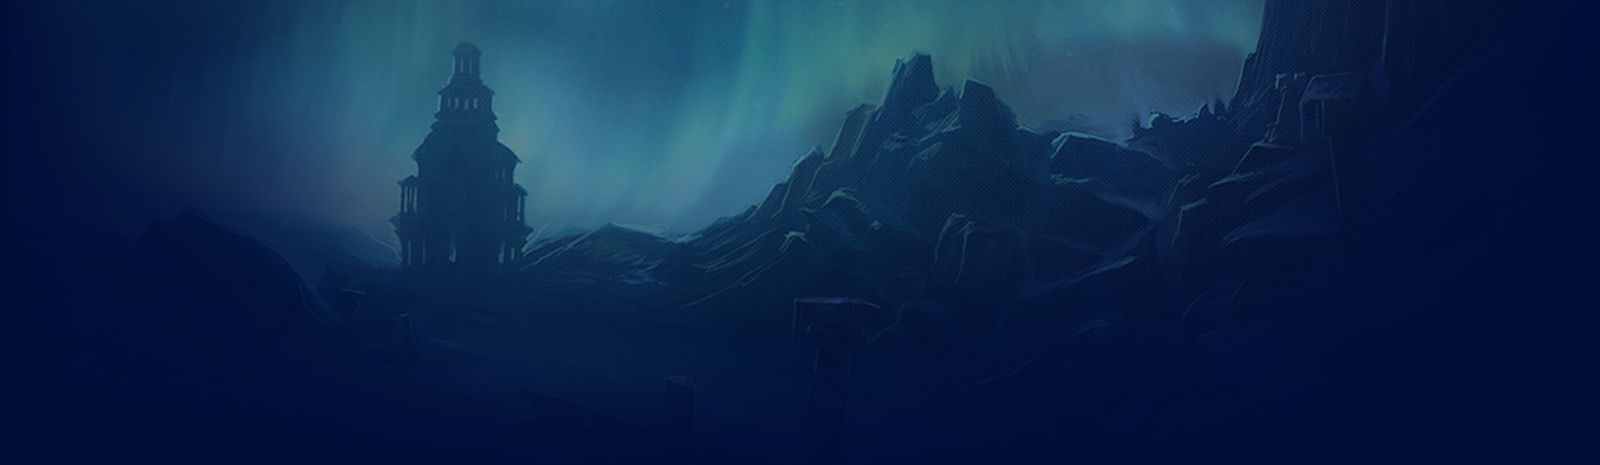
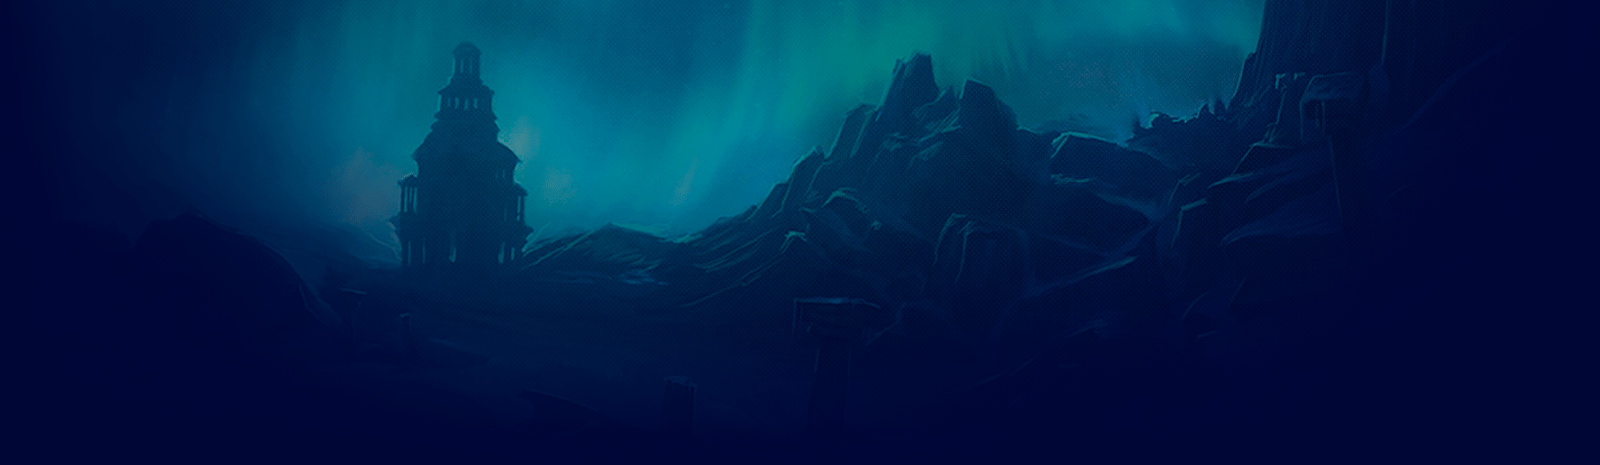
Update
- Remove more functions
- Compress images
- Fix change nickname/email

diff --git a/application/views/layouts/layout.php b/application/views/layouts/layout.php
@@ -32,11 +32,7 @@
               <?php if ($this->website->isLogged()): ?>
               <li class="uk-visible@m">
                 <a href="#">
-                  <?php if($this->base->getUserInfoGeneral($this->session->userdata('id'))->num_rows()): ?>
-                  <img class="uk-border-circle" src="<?= base_url('assets/images/profiles/'.$this->website->getNameAvatar($this->website->getImageProfile($this->session->userdata('id')))); ?>" width="30" height="30" alt="Avatar">
-                  <?php else: ?>
-                  <img class="uk-border-circle" src="<?= base_url('assets/images/profiles/default.png'); ?>" width="30" height="30" alt="Avatar">
-                  <?php endif; ?>
+                  <img class="uk-border-circle" src="<?= base_url('assets/images/profiles/'.$this->website->user_avatar()); ?>" width="30" height="30" alt="Avatar">
                   <span class="uk-text-middle uk-text-bold">&nbsp;<?= $this->session->userdata('nickname'); ?>&nbsp;<i class="fas fa-caret-down"></i></span>
                 </a>
                 <div class="uk-navbar-dropdown" uk-dropdown="boundary: .uk-container">
@@ -137,11 +133,7 @@
               <p class="uk-logo uk-text-center uk-margin-small"><?= config_item('app_name'); ?></p>
               <?php if ($this->website->isLogged()): ?>
               <div class="uk-padding-small uk-padding-remove-vertical uk-margin-small uk-text-center">
-                <?php if($this->base->getUserInfoGeneral($this->session->userdata('id'))->num_rows()): ?>
-                <img class="uk-border-circle" src="<?= base_url('assets/images/profiles/'.$this->website->getNameAvatar($this->website->getImageProfile($this->session->userdata('id')))); ?>" width="36" height="36" alt="Avatar">
-                <?php else: ?>
-                <img class="uk-border-circle" src="<?= base_url('assets/images/profiles/default.png'); ?>" width="36" height="36" alt="Avatar">
-                <?php endif; ?>
+                <img class="uk-border-circle" src="<?= base_url('assets/images/profiles/'.$this->website->user_avatar()); ?>" width="36" height="36" alt="Avatar">
                 <span class="uk-label"><?= $this->session->userdata('nickname'); ?></span>
               </div>
               <?php endif; ?>
@@ -206,7 +198,7 @@
       <div class="uk-container">
         <div class="uk-grid uk-grid-small uk-flex uk-flex-middle" data-uk-grid>
           <div class="uk-width-auto@s">
-            <p class="uk-h6 uk-text-bold uk-text-uppercase uk-text-center uk-text-left@s">Proudly powered by <a target="_blank" href="https://wow-cms.com">BlizzCMS</a></p>
+            <p class="uk-text-bold uk-text-uppercase uk-text-center uk-text-left@s">Proudly powered by <a target="_blank" href="https://wow-cms.com">BlizzCMS</a></p>
           </div>
           <div class="uk-width-expand@s">
             <p class="uk-text-small uk-text-center uk-text-right@s">Copyright <i class="far fa-copyright"></i> <?= date('Y'); ?> <span class="uk-text-bold"><?= config_item('app_name'); ?></span>. <?= lang('footer_rights'); ?></p>

diff --git a/application/modules/admin/views/account/manage_account.php b/application/modules/admin/views/account/manage_account.php
@@ -16,13 +16,11 @@
             <div class="uk-grid uk-grid-medium" data-uk-grid>
               <div class="uk-width-1-4@s">
                 <div class="uk-flex uk-flex-center uk-margin-small">
-                  <img class="uk-border-rounded" src="<?= base_url('assets/images/profiles/'.$this->website->getNameAvatar($this->website->getImageProfile($idlink))); ?>" height="170" alt="Avatar">
+                  <img class="uk-border-rounded" src="<?= base_url('assets/images/profiles/'.$this->website->user_avatar($user->id)); ?>" height="170" alt="Avatar">
                 </div>
                 <div class="uk-text-center uk-margin-small">
-                  <?php foreach ($this->base->getUserInfoGeneral($idlink)->result() as $info): ?>
-                  <h3 class="uk-h3 uk-text-bold uk-margin-remove"><i class="fas fa-user"></i> <?= $info->username ?></h3>
-                  <p class="uk-margin-remove"><i class="fas fa-envelope"></i> <?= $info->email ?></p>
-                  <?php endforeach; ?>
+                  <h3 class="uk-h3 uk-text-bold uk-margin-remove"><i class="fas fa-user"></i> <?= $user->username; ?></h3>
+                  <p class="uk-margin-remove"><i class="fas fa-envelope"></i> <?= $user->email ?></p>
                 </div>
               </div>
               <div class="uk-width-3-4@s">
@@ -33,13 +31,13 @@
                     <div class="uk-inline uk-width-1-2@s">
                       <label class="uk-form-label"><?= lang('panel_dp'); ?></label>
                       <div class="uk-form-controls">
-                        <input class="uk-input" type="number" id="account_dp" min="0" value="<?= $this->website->get_user($idlink, 'dp'); ?>" placeholder="<?= lang('panel_dp'); ?>" required>
+                        <input class="uk-input" type="number" id="account_dp" min="0" value="<?= $user->dp; ?>" placeholder="<?= lang('panel_dp'); ?>" required>
                       </div>
                     </div>
                     <div class="uk-inline uk-width-1-2@s">
                       <label class="uk-form-label"><?= lang('panel_vp'); ?></label>
                       <div class="uk-form-controls">
-                        <input class="uk-input" type="number" id="account_vp" min="0" value="<?= $this->website->get_user($idlink, 'vp'); ?>" placeholder="<?= lang('panel_vp'); ?>" required>
+                        <input class="uk-input" type="number" id="account_vp" min="0" value="<?= $user->vp; ?>" placeholder="<?= lang('panel_vp'); ?>" required>
                       </div>
                     </div>
                   </div>

diff --git a/application/modules/forum/views/topic.php b/application/modules/forum/views/topic.php
@@ -43,11 +43,7 @@ endif; ?>
               <div class="uk-width-1-6@s">
                 <div class="Author <?php if($this->auth->get_gmlevel($this->forum_model->getSpecifyPostAuthor($idlink)) > 0) echo 'topic-author-staff'; ?> uk-flex uk-flex-center">
                   <div class="topic-author-avatar profile">
-                    <?php if($this->base->getUserInfoGeneral($this->forum_model->getSpecifyPostAuthor($idlink))->num_rows()): ?>
-                    <img src="<?= base_url('assets/images/profiles/').$this->website->getNameAvatar($this->website->getImageProfile($this->forum_model->getSpecifyPostAuthor($idlink))); ?>" alt="" />
-                    <?php else: ?>
-                    <img src="<?= base_url('assets/images/profiles/default.png'); ?>" alt="" />
-                    <?php endif; ?>
+                    <img src="<?= base_url('assets/images/profiles/'.$this->website->user_avatar($this->forum_model->getSpecifyPostAuthor($idlink))); ?>" alt="Avatar">
                   </div>
                 </div>
                 <p class="uk-text-bold uk-text-center uk-margin-remove"><?= $this->website->get_user($this->forum_model->getSpecifyPostAuthor($idlink), 'nickname'); ?></p>
@@ -71,11 +67,7 @@ endif; ?>
                 <div class="uk-width-1-6@s">
                   <div class="Author <?php if($this->auth->get_gmlevel($commentss->author) > 0) echo 'topic-author-staff'; ?> uk-flex uk-flex-center">
                     <div class="topic-author-avatar profile">
-                      <?php if($this->base->getUserInfoGeneral($commentss->author)->num_rows()): ?>
-                      <img src="<?= base_url('assets/images/profiles/'.$this->website->getNameAvatar($this->website->getImageProfile($commentss->author))); ?>" alt="" />
-                      <?php else: ?>
-                      <img src="<?= base_url('assets/images/profiles/default.png'); ?>" alt="" />
-                      <?php endif; ?>
+                      <img src="<?= base_url('assets/images/profiles/'.$this->website->user_avatar($commentss->author)); ?>" alt="Avatar">
                     </div>
                   </div>
                   <p class="uk-text-bold uk-text-center uk-margin-remove"><?= $this->website->get_user($commentss->author, 'nickname'); ?></p>

diff --git a/application/models/Base_model.php b/application/models/Base_model.php
@@ -143,79 +143,6 @@ class Base_model extends CI_Model
 		return $this->db->order_by('id', 'ASC')->get('avatars')->result();
 	}
 
-	public function getUserInfoGeneral($id)
-	{
-		return $this->db->where('id', $id)->get('users');
-	}
-
-	public function getEmulatorAction()
-	{
-		$emulator = config_item('emulator_legacy');
-
-		if($emulator == true)
-		{
-			switch($emulator)
-			{
-				case true:
-					return "1";
-				break;
-			}
-		}
-
-	}
-
-	public function getExpansionAction()
-	{
-		$expansion = config_item('expansion');
-		switch ($expansion)
-		{
-			case 1:
-			case 2:
-			case 3:
-			case 4:
-			case 5:
-				return "1";
-			break;
-			case 6:
-			case 7:
-			case 8:
-				return "2";
-			break;
-		}
-	}
-
-	public function getRealExpansionDB()
-	{
-		$expansion = config_item('expansion');
-		switch ($expansion)
-		{
-			case 1:
-				return "0";
-				break;
-			case 2:
-				return "1";
-				break;
-			case 3:
-				return "2";
-				break;
-			case 4:
-				return "3";
-				break;
-			case 5:
-				return "4";
-				break;
-			case 6:
-				return "5";
-				break;
-			case 7:
-				return "6";
-				break;
-			case 8:
-				return "7";
-				break;
-		}
-	}
-
 	public function getSpecifyZone($zoneid)
 	{
 		$qq = $this->db->select('zone_name')->where('id', $zoneid)->get('zones');

diff --git a/application/views/article.php b/application/views/article.php
@@ -31,11 +31,7 @@
                     <div class="uk-width-1-6@s">
                       <div class="Author <?php if($this->auth->get_gmlevel($comment->author) > 0) echo 'topic-author-staff'; ?> uk-flex uk-flex-center">
                         <div class="topic-author-avatar profile">
-                          <?php if ($this->base->getUserInfoGeneral($comment->author)->num_rows()): ?>
-                          <img src="<?= base_url('assets/images/profiles/'.$this->website->getNameAvatar($this->website->getImageProfile($comment->author))); ?>" alt="" />
-                          <?php else: ?>
-                          <img src="<?= base_url('assets/images/profiles/default.png'); ?>" alt="" />
-                          <?php endif; ?>
+                          <img src="<?= base_url('assets/images/profiles/'.$this->website->user_avatar($comment->author)); ?>" alt="Avatar">
                         </div>
                       </div>
                       <p class="uk-margin-remove uk-text-bold uk-text-center"><?= $this->website->get_user($comment->author, 'nickname'); ?></p>

diff --git a/application/views/layouts/mod_layout.php b/application/views/layouts/mod_layout.php
@@ -27,11 +27,7 @@
               <li><a href="<?= base_url(); ?>"><i class="fas fa-home fa-lg"></i></a></li>
               <li>
                 <a href="javascript:void(0)">
-                  <?php if($this->base->getUserInfoGeneral($this->session->userdata('id'))->num_rows()): ?>
-                  <img class="uk-border-rounded profile-img" src="<?= base_url('assets/images/profiles/').$this->website->getNameAvatar($this->website->getImageProfile($this->session->userdata('id'))); ?>" alt="Avatar">
-                  <?php else: ?>
-                  <img class="uk-border-rounded profile-img" src="<?= base_url('assets/images/profiles/default.png'); ?>" alt="Avatar">
-                  <?php endif; ?>
+                  <img class="uk-border-rounded profile-img" src="<?= base_url('assets/images/profiles/'.$this->website->user_avatar()); ?>" alt="Avatar">
                   <span class="uk-text-middle uk-text-bold"><?= $this->session->userdata('nickname'); ?><span uk-icon="icon: triangle-down"></span></span>
                 </a>
                 <div class="uk-navbar-dropdown">

diff --git a/application/views/layouts/admin_layout.php b/application/views/layouts/admin_layout.php
@@ -27,11 +27,7 @@
               <li><a href="<?= base_url(); ?>"><i class="fas fa-home fa-lg"></i></a></li>
               <li>
                 <a href="javascript:void(0)">
-                  <?php if($this->base->getUserInfoGeneral($this->session->userdata('id'))->num_rows()): ?>
-                  <img class="uk-border-rounded profile-img" src="<?= base_url('assets/images/profiles/').$this->website->getNameAvatar($this->website->getImageProfile($this->session->userdata('id'))); ?>" alt="">
-                  <?php else: ?>
-                  <img class="uk-border-rounded profile-img" src="<?= base_url('assets/images/profiles/default.png'); ?>"  alt="">
-                  <?php endif; ?>
+                  <img class="uk-border-rounded profile-img" src="<?= base_url('assets/images/profiles/'.$this->website->user_avatar()); ?>" alt="Avatar">
                   <span class="uk-text-middle uk-text-bold"><?= $this->session->userdata('nickname'); ?><span uk-icon="icon: triangle-down"></span></span>
                 </a>
                 <div class="uk-navbar-dropdown">

diff --git a/application/modules/user/controllers/User.php b/application/modules/user/controllers/User.php
@@ -65,7 +65,7 @@ class User extends MX_Controller
 				redirect(site_url('settings'));
 			}
 
-			$this->db->set('nickname', $nickname)->where('id', $this->session->userdata('id'))->update('users');
+			$this->db->set('nickname', $nickname)->where('id', $user->id)->update('users');
 			$this->session->set_userdata('nickname', $nickname);
 
 			$this->session->set_flashdata('success', lang('alert_nickname_changed'));
@@ -113,13 +113,13 @@ class User extends MX_Controller
 			{
 				$bnet = game_hash($new_email, $password, 'bnet');
 
-				$this->auth->connect()->where('id', $id)->update('battlenet_accounts', [
+				$this->auth->connect()->where('id', $user->id)->update('battlenet_accounts', [
 					'email'         => $new_email,
 					'sha_pass_hash' => $bnet
 				]);
 			}
 
-			$this->db->set('email', $new_email)->where('id', $id)->update('users');
+			$this->db->set('email', $new_email)->where('id', $user->id)->update('users');
 
 			$this->session->set_flashdata('success', lang('alert_email_changed'));
 			redirect(site_url('settings'));

diff --git a/application/modules/user/views/settings.php b/application/modules/user/views/settings.php
@@ -172,7 +172,7 @@
                       <?php foreach ($this->base->get_avatars() as $avatar): ?>
                         <div>
                           <img class="uk-border-rounded uk-margin-small" src="<?= base_url('assets/images/profiles/'.$avatar->name); ?>" width="60" height="60">
-                          <input class="uk-radio uk-display-block uk-margin-auto-left uk-margin-auto-right change_avatar" type="radio" name="avatar" value="<?= $avatar->id ?>" <?php if ($this->website->getImageProfile($this->session->userdata('id')) == $avatar->id) echo 'checked'; ?>>
+                          <input class="uk-radio uk-display-block uk-margin-auto-left uk-margin-auto-right change_avatar" type="radio" name="avatar" value="<?= $avatar->id ?>" <?php if ($this->website->get_user(null, 'profile') == $avatar->id) echo 'checked'; ?>>
                         </div>
                       <?php endforeach; ?>
                     </div>

diff --git a/application/modules/admin/views/account/accounts.php b/application/modules/admin/views/account/accounts.php
@@ -24,7 +24,7 @@
                 <?php foreach($accountsList as $account): ?>
                 <tr>
                   <td>
-                    <img class="uk-preserve-width uk-border-rounded" src="<?= base_url('assets/images/profiles/'.$this->website->getNameAvatar($account->profile)); ?>" alt="Avatar" width="36">
+                    <img class="uk-preserve-width uk-border-rounded" src="<?= base_url('assets/images/profiles/'.$this->website->user_avatar($account->id)); ?>" alt="Avatar" width="36">
                     <span class="uk-text-middle"><?= $account->username ?></span>
                   </td>
                   <td class="uk-text-center"><?= $account->email ?></td>

diff --git a/application/models/Website_model.php b/application/models/Website_model.php
@@ -80,14 +80,17 @@ class Website_model extends CI_Model
 		return false;
 	}
 
-	public function getImageProfile($id)
+	/**
+	 * Get avatar name of specific user
+	 *
+	 * @param int $id
+	 * @return boolean
+	 */
+	public function user_avatar($id = null)
 	{
-		return $this->db->select('profile')->where('id', $id)->get('users')->row('profile');
-	}
+		$avatar = $this->get_user($id, 'profile');
 
-	public function getNameAvatar($id)
-	{
-		return $this->db->select('name')->where('id', $id)->get('avatars')->row('name');
+		return $this->db->where('id', $avatar)->get('avatars')->row('name');
 	}
 
 	/**

diff --git a/application/modules/admin/models/Admin_model.php b/application/modules/admin/models/Admin_model.php
@@ -93,7 +93,7 @@ class Admin_model extends CI_Model
 
 		$this->auth->connect()->insert('account_banned', $data2);
 
-		if ($this->base->getExpansionAction() == 2)
+		if (config_item('emulator_bnet') == 'true')
 		{
 			$this->auth->connect()->insert('battlenet_account_bans', $data2);
 		}
@@ -105,7 +105,7 @@ class Admin_model extends CI_Model
 	{
 		$this->auth->connect()->where('id', $id)->delete('account_banned');
 
-		if ($this->base->getExpansionAction() == 2)
+		if (config_item('emulator_bnet') == 'true')
 		{
 			$this->auth->connect()->where('id', $id)->delete('battlenet_account_bans');
 		}
